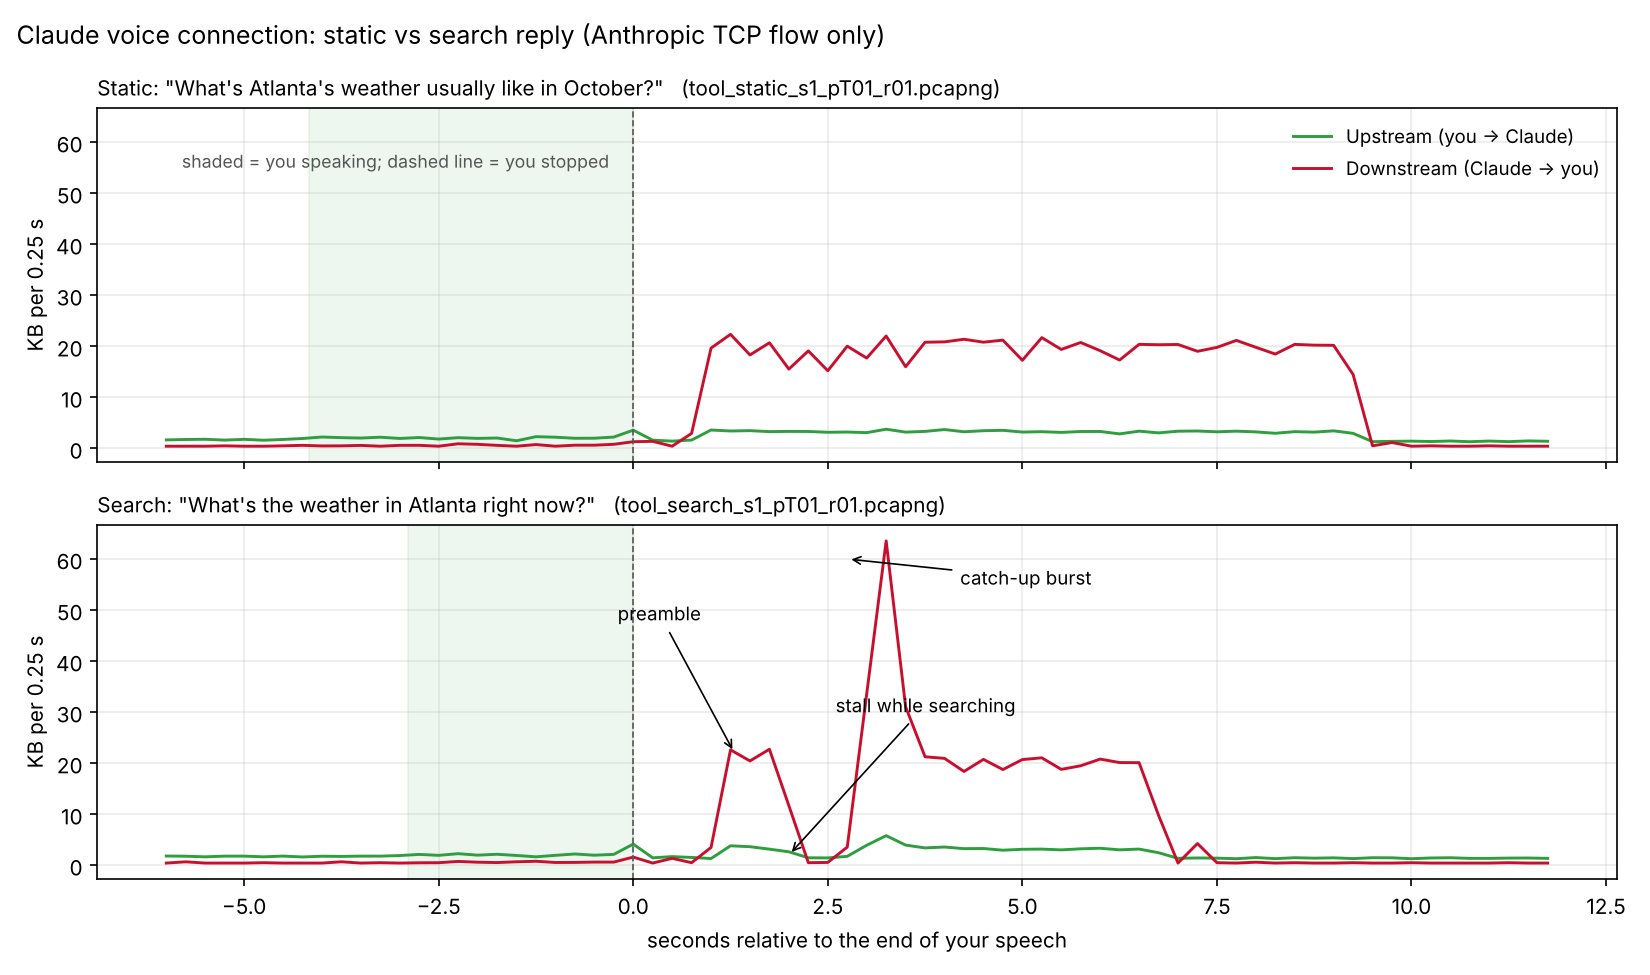
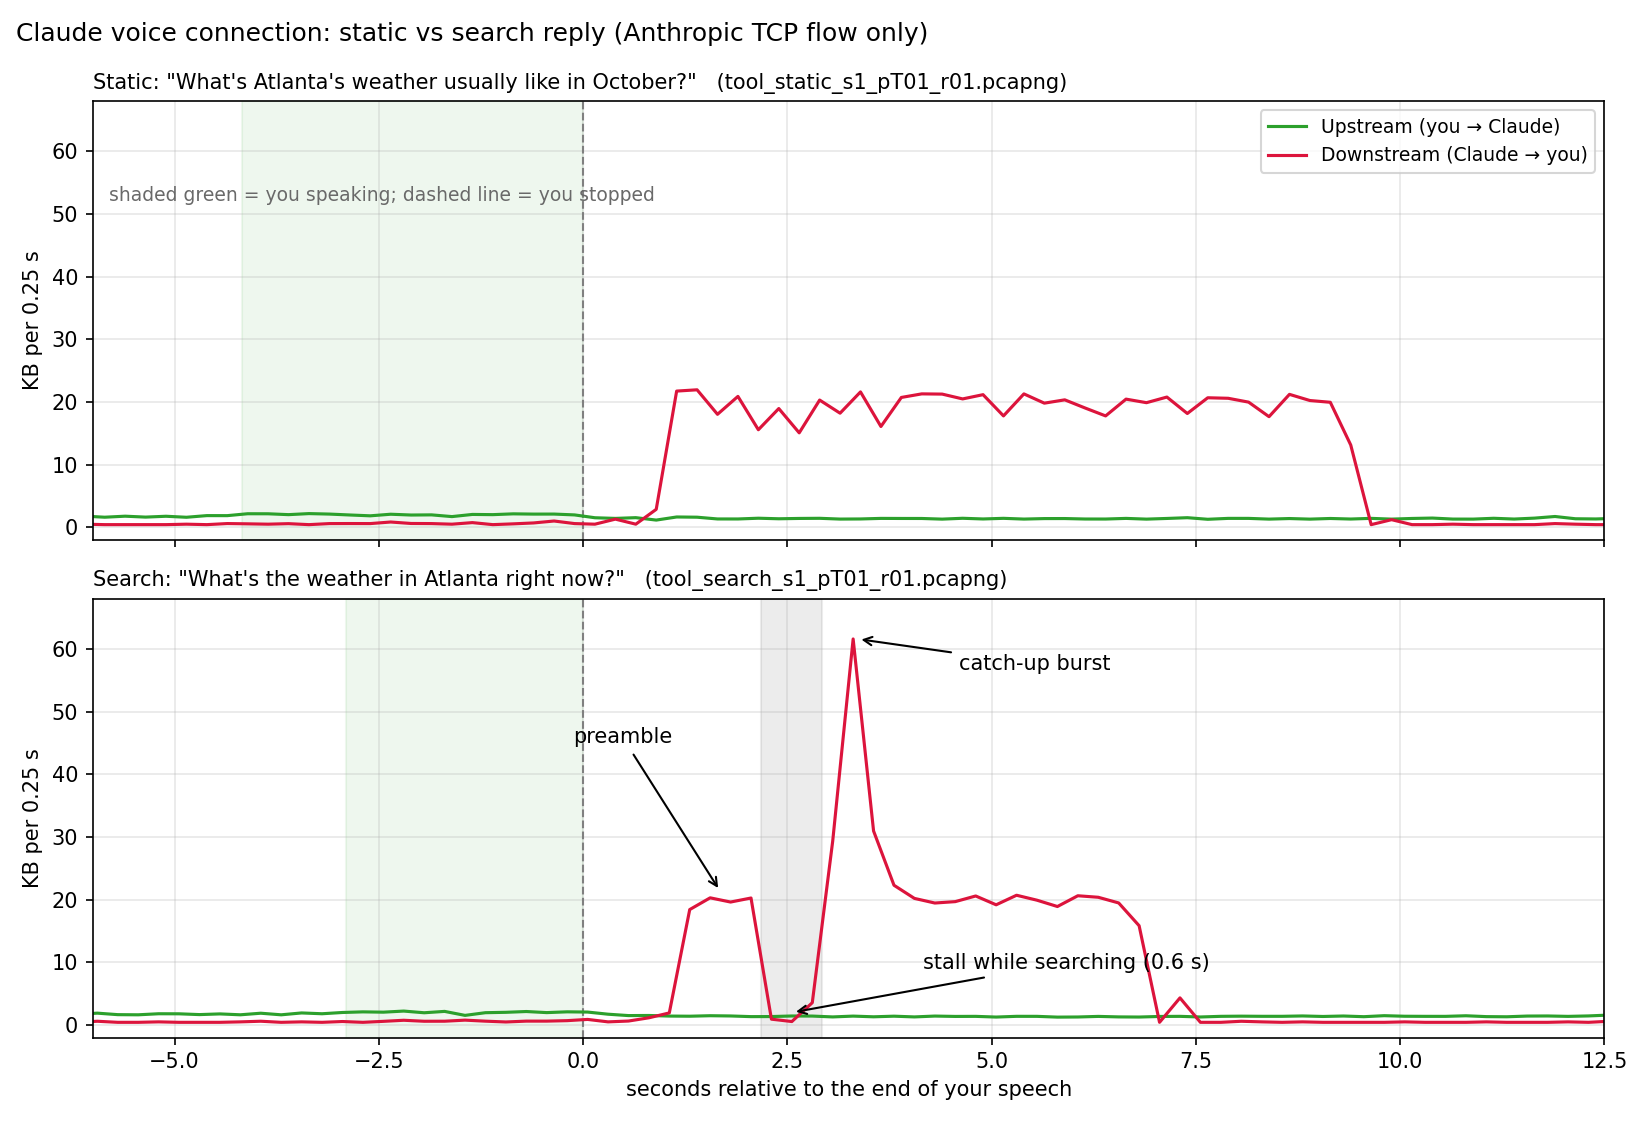
Exp 3 figures; fix annotations on search-vs-static chart

diff --git a/exp3_tool_use/plot_example.py b/exp3_tool_use/plot_example.py
@@ -1,0 +1,73 @@
+"""Redraw results/exp3_io_search_vs_static.png from the pcaps.
+
+Annotation positions (preamble, stall, catch-up burst) are computed from the
+search capture's downstream bins, not placed by hand.
+Usage: python plot_example.py
+"""
+import matplotlib
+matplotlib.use("Agg")
+import matplotlib.pyplot as plt
+
+import analyze
+
+CASES = [
+    ("Static", "What's Atlanta's weather usually like in October?", "tool_static_s1_pT01_r01.pcapng"),
+    ("Search", "What's the weather in Atlanta right now?", "tool_search_s1_pT01_r01.pcapng"),
+]
+HOT = analyze.REPLY_BIN_BYTES / 1024   # KB per bin that counts as reply audio
+
+
+def series(pairs):
+    xs = [t + analyze.BIN / 2 for t, _ in pairs]   # plot each bin at its centre
+    ys = [v / 1024 for _, v in pairs]
+    return xs, ys
+
+
+fig, axes = plt.subplots(2, 1, figsize=(11, 7.5), sharex=True, sharey=True)
+for ax, (kind, prompt, f) in zip(axes, CASES):
+    r = analyze.analyze_file("captures/" + f)
+    ux, uy = series(r["_up"])
+    dx, dy = series(r["_down"])
+    ax.axvspan(-r["speech_s"], 0, color="tab:green", alpha=0.08)
+    ax.axvline(0, color="gray", ls="--", lw=1)
+    ax.plot(ux, uy, color="tab:green", label="Upstream (you → Claude)")
+    ax.plot(dx, dy, color="crimson", label="Downstream (Claude → you)")
+    ax.set_title(f'{kind}: "{prompt}"   ({f})', loc="left", fontsize=10)
+    ax.set_ylabel("KB per 0.25 s")
+    ax.grid(alpha=0.3)
+
+    if kind == "Search":
+        pts = [(x, y) for x, y in zip(dx, dy) if x > 0]
+        hot = [i for i, (_, y) in enumerate(pts) if y >= HOT]
+        # preamble = first run of hot bins; stall = cold bins after it; burst = peak after stall
+        i = hot[0]
+        while i + 1 < len(pts) and pts[i + 1][1] >= HOT:
+            i += 1
+        pre = pts[hot[0]:i + 1]
+        j = i + 1
+        while pts[j][1] < HOT:
+            j += 1
+        stall = pts[i + 1:j]
+        peak = max(pts[j:], key=lambda p: p[1])
+
+        px = (pre[0][0] + pre[-1][0]) / 2
+        ax.annotate("preamble", xy=(px, max(y for _, y in pre) + 1), xytext=(px - 1.2, 45),
+                    arrowprops=dict(arrowstyle="->"), ha="center")
+        sx = (stall[0][0] + stall[-1][0]) / 2
+        ax.axvspan(stall[0][0] - analyze.BIN / 2, stall[-1][0] + analyze.BIN / 2,
+                   color="gray", alpha=0.15)
+        ax.annotate(f"stall while searching ({r['dip_s']} s)",
+                    xy=(sx, 2), xytext=(sx + 1.6, 9), arrowprops=dict(arrowstyle="->"))
+        ax.annotate("catch-up burst", xy=(peak[0] + 0.05, peak[1]), xytext=(peak[0] + 1.3, peak[1] - 5),
+                    arrowprops=dict(arrowstyle="->"))
+    else:
+        ax.text(-5.8, 52, "shaded green = you speaking; dashed line = you stopped", fontsize=9, color="dimgray")
+        ax.legend(loc="upper right", fontsize=9)
+
+axes[0].set_xlim(-6, 12.5)
+axes[0].set_ylim(-2, 68)
+axes[1].set_xlabel("seconds relative to the end of your speech")
+fig.suptitle("Claude voice connection: static vs search reply (Anthropic TCP flow only)", x=0.01, ha="left")
+fig.tight_layout()
+fig.savefig("results/exp3_io_search_vs_static.png", dpi=150)
+print("saved")
